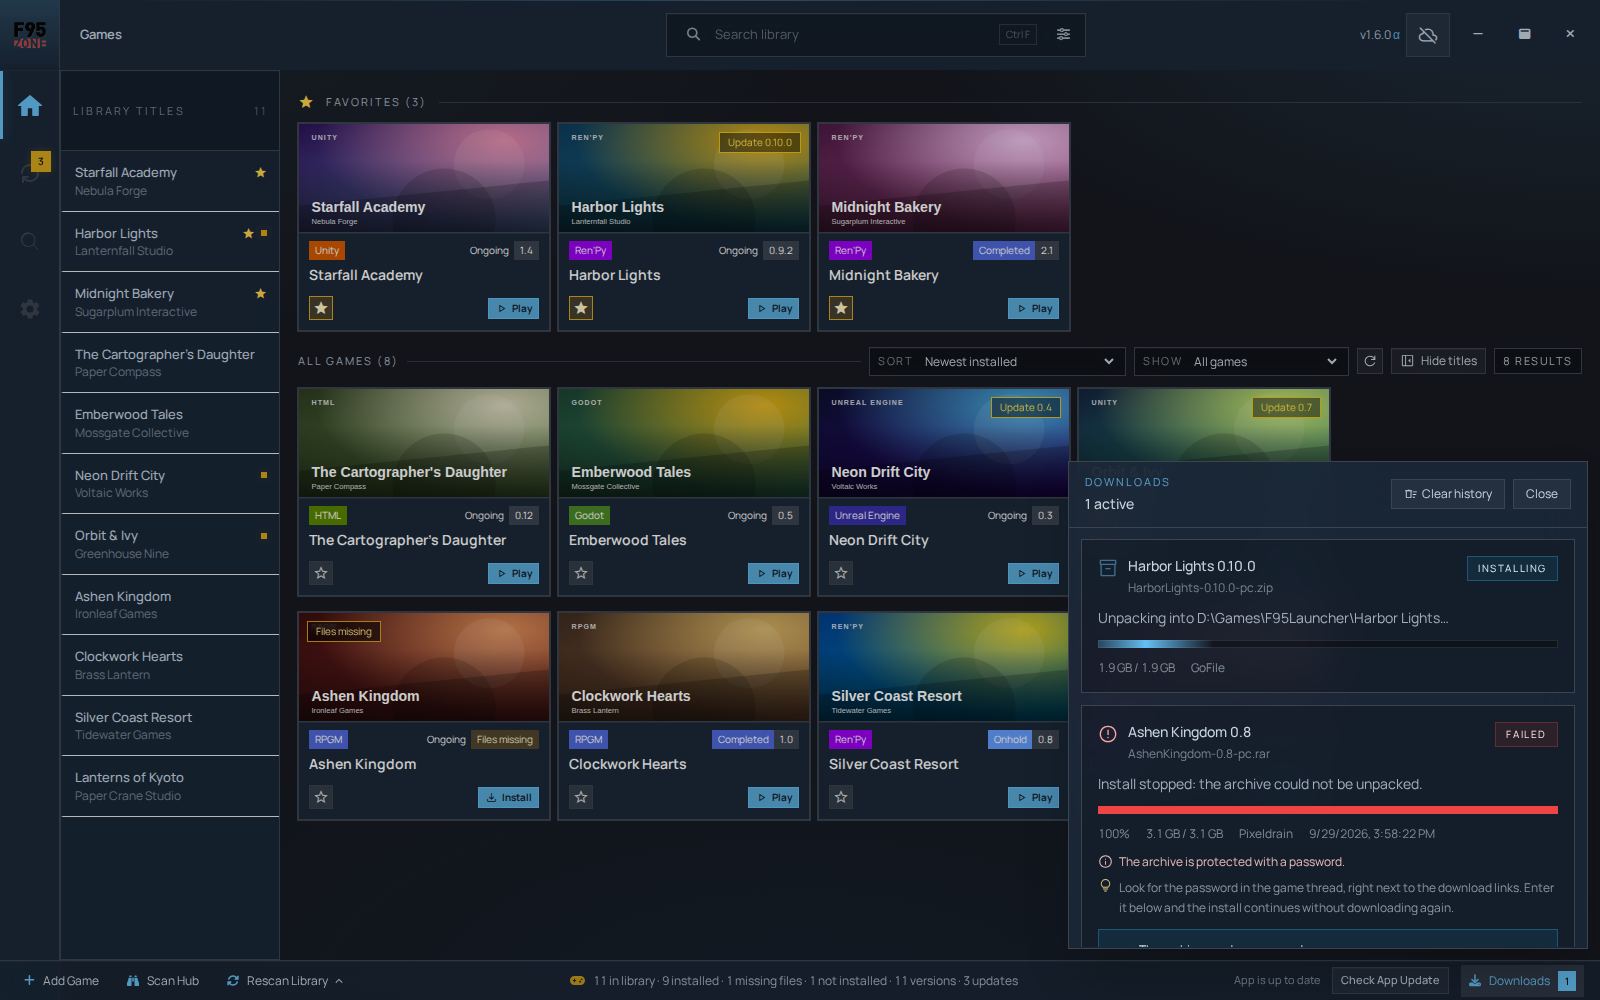
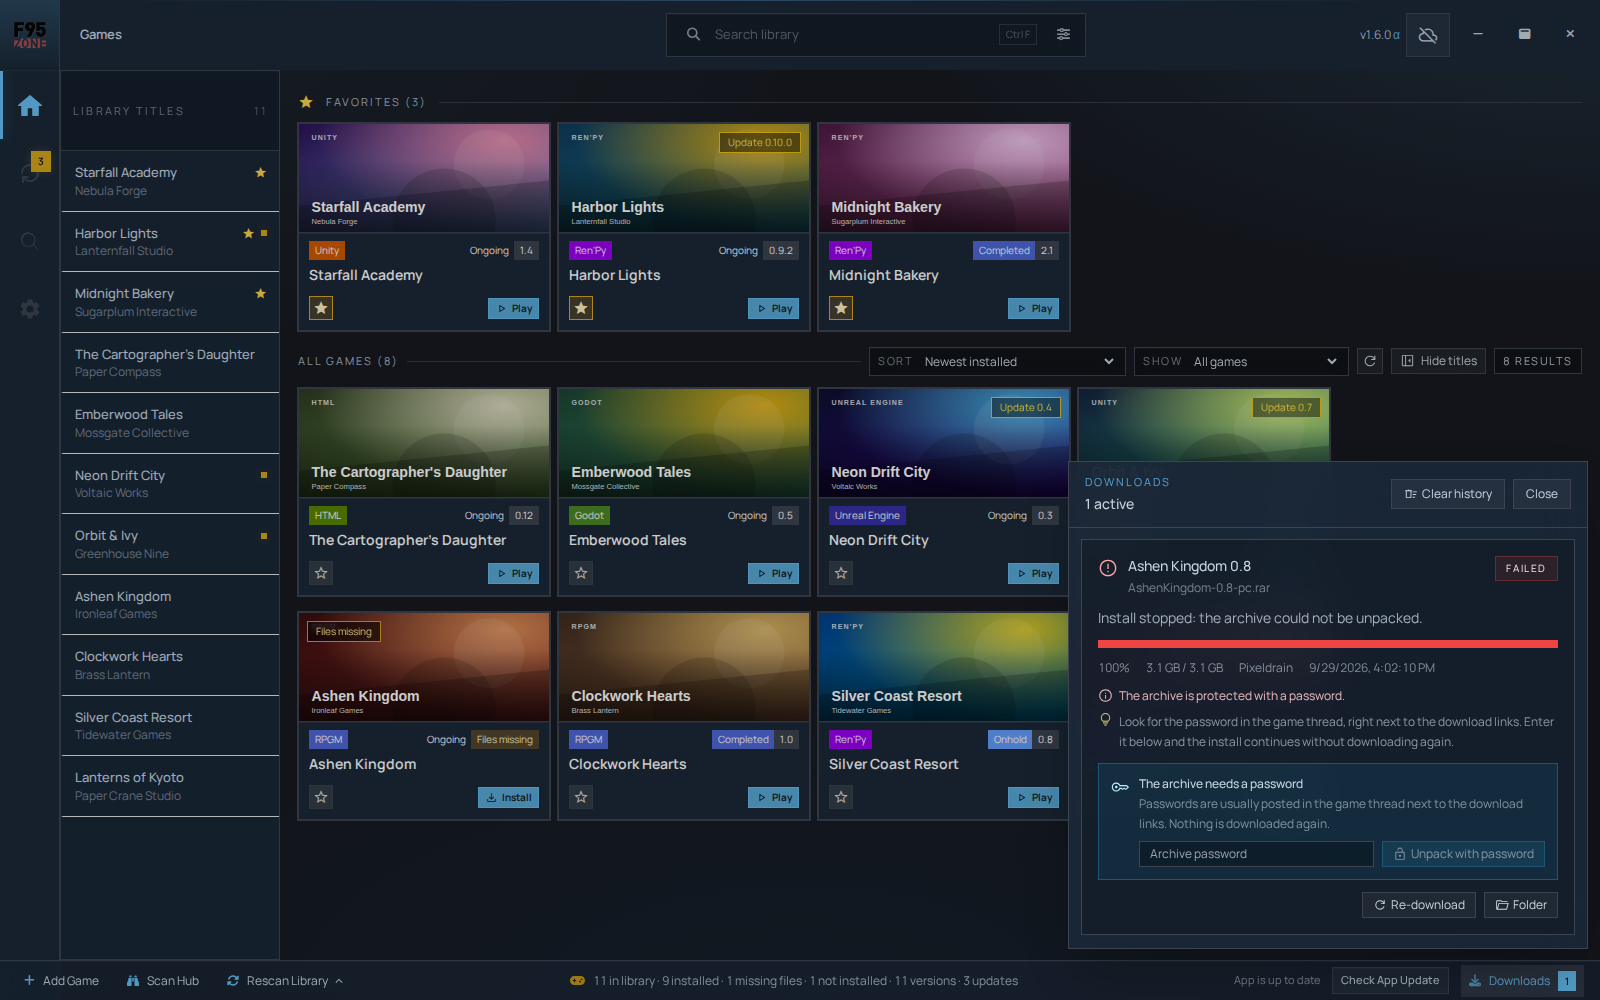
fix: Documents save detection no longer blocks full game removal
On Windows the save profile detector scans the real Documents folder and
matched the creator name by overlap ("Studio" vs "Visual Studio 2022"),
producing a profile that removeLibraryGame refused as unsafe, so
"delete files and saves" failed. The Documents root now needs an exact
folder name; "My Games" and "Saved Games" keep overlap matching.
Full removal can wipe Documents/Saved Games save folders but never the
roots themselves. Tests isolate those folders through the existing
ATLAS_DOCUMENTS_DIR / ATLAS_SAVED_GAMES_DIR overrides.

Also: refreshed marketing screenshots and their captions, and the demo
downloads card shows one action row.

Changed region(s): [[0.6875, 0.558, 0.9688, 0.93], [0.9062, 0.558, 0.9688, 0.589]]

diff --git a/test/gameRemoval.test.js b/test/gameRemoval.test.js
@@ -264,18 +264,34 @@ test("removeLibraryGame full cleanup deletes install folders, detected saves, an
     "saves",
     "slot2.save",
   );
-  const previousAppData = process.env.APPDATA;
+  const previousEnv = {
+    APPDATA: process.env.APPDATA,
+    ATLAS_DOCUMENTS_DIR: process.env.ATLAS_DOCUMENTS_DIR,
+    ATLAS_SAVED_GAMES_DIR: process.env.ATLAS_SAVED_GAMES_DIR,
+  };
   const appDataRoot = path.join(tempRoot, "AppData", "Roaming");
   const renpySaveRoot = path.join(appDataRoot, "RenPy", "Fresh Start");
   const renpySaveFile = path.join(renpySaveRoot, "persistent");
+  // The detector also looks in the real Documents / Saved Games folders of
+  // the machine; point them at the temp dir so the test never depends on
+  // (or touches) what the developer keeps there.
+  const documentsRoot = path.join(tempRoot, "Documents");
+  const documentsSaveRoot = path.join(documentsRoot, "My Games", "Fresh Start");
+  const savedGamesRoot = path.join(tempRoot, "Saved Games");
 
   ensureAppDirs(appPaths);
   fs.mkdirSync(path.dirname(localSavePath), { recursive: true });
   fs.mkdirSync(renpySaveRoot, { recursive: true });
+  fs.mkdirSync(documentsSaveRoot, { recursive: true });
+  fs.mkdirSync(path.join(documentsRoot, "Studio Projects"), { recursive: true });
+  fs.mkdirSync(savedGamesRoot, { recursive: true });
   fs.writeFileSync(localSavePath, "slot-two", "utf8");
   fs.writeFileSync(path.join(installDirectory, "game.exe"), "binary", "utf8");
   fs.writeFileSync(renpySaveFile, "persistent-two", "utf8");
+  fs.writeFileSync(path.join(documentsSaveRoot, "slot1.sav"), "documents-save", "utf8");
   process.env.APPDATA = appDataRoot;
+  process.env.ATLAS_DOCUMENTS_DIR = documentsRoot;
+  process.env.ATLAS_SAVED_GAMES_DIR = savedGamesRoot;
 
   const db = await initializeDatabase(appPaths);
 
@@ -323,15 +339,21 @@ test("removeLibraryGame full cleanup deletes install folders, detected saves, an
       },
     );
 
-    assert.equal(result.success, true);
+    assert.equal(result.success, true, JSON.stringify(result));
     assert.equal(fs.existsSync(installDirectory), false);
     assert.equal(fs.existsSync(renpySaveRoot), false);
+    assert.equal(fs.existsSync(documentsSaveRoot), false, "Documents/My Games save folder is wiped");
+    assert.equal(fs.existsSync(path.join(documentsRoot, "My Games")), true, "shared My Games level stays");
+    assert.equal(fs.existsSync(path.join(documentsRoot, "Studio Projects")), true, "unrelated Documents folder stays");
     assert.equal(
       fs.existsSync(path.join(appPaths.backups, "save_vault", identity)),
       false,
     );
   } finally {
-    process.env.APPDATA = previousAppData;
+    for (const [key, value] of Object.entries(previousEnv)) {
+      if (value === undefined) delete process.env[key];
+      else process.env[key] = value;
+    }
     await closeAsync(db);
   }
 });

diff --git a/test/saveProfileDetector.test.js b/test/saveProfileDetector.test.js
@@ -211,6 +211,8 @@ test("detectSaveProfiles finds Documents/My Games, Saved Games and GameMaker fol
   fs.writeFileSync(path.join(installRoot, "data.win"), "");
   fs.mkdirSync(path.join(documents, "My Games", "Crimson High"), { recursive: true });
   fs.mkdirSync(path.join(documents, "Game"), { recursive: true });
+  fs.mkdirSync(path.join(documents, "Crimson High"), { recursive: true });
+  fs.mkdirSync(path.join(documents, "Studio X Projects"), { recursive: true });
   fs.mkdirSync(path.join(savedGames, "CrimsonHigh"), { recursive: true });
   fs.mkdirSync(path.join(localAppData, "Crimson_High"), { recursive: true });
   fs.writeFileSync(path.join(localAppData, "Crimson_High", "save.ini"), "");
@@ -233,8 +235,16 @@ test("detectSaveProfiles finds Documents/My Games, Saved Games and GameMaker fol
     assert.ok(roots.includes(path.join(savedGames, "CrimsonHigh")), "Saved Games");
     assert.ok(roots.includes(path.join(localAppData, "Crimson_High")), "GameMaker LocalAppData");
     assert.equal(roots.includes(path.join(documents, "Game")), false, "generic names never match");
+    assert.ok(roots.includes(path.join(documents, "Crimson High")), "Documents root, exact name");
+    assert.equal(
+      roots.includes(path.join(documents, "Studio X Projects")),
+      false,
+      "Documents root never matches by overlap",
+    );
     assert.equal(roots.includes(path.join(localAppData, "Microsoft")), false);
-    const documentsProfile = profiles.find((profile) => profile.provider === "documents");
+    const documentsProfile = profiles.find(
+      (profile) => profile.rootPath === path.join(documents, "My Games", "Crimson High"),
+    );
     assert.deepEqual(documentsProfile.strategy, {
       type: "windows-known-folder",
       payload: { baseFolder: "documents", path: "My Games/Crimson High" },

diff --git a/src/main/gameRemoval.js b/src/main/gameRemoval.js
@@ -183,7 +183,16 @@ function collectExternalSaveDirectories(saveSnapshot, installDirectories) {
     appdata: getKnownFolderRoot("appdata"),
     localAppData: getKnownFolderRoot("localAppData"),
     localLow: getKnownFolderRoot("localLow"),
+    documents: getKnownFolderRoot("documents"),
+    savedGames: getKnownFolderRoot("savedGames"),
   };
+  // Documents and Saved Games hold plenty that is not a game: only a folder
+  // below them (never the root or a shared "My Games" level) may be wiped.
+  const protectedRoots = [
+    knownRoots.documents,
+    knownRoots.savedGames,
+    knownRoots.documents ? path.join(knownRoots.documents, "My Games") : "",
+  ].filter(Boolean);
   const seenPaths = new Set();
   const deletePaths = [];
   const unsupportedPaths = [];
@@ -224,7 +233,13 @@ function collectExternalSaveDirectories(saveSnapshot, installDirectories) {
     if (strategyType === "windows-known-folder") {
       const baseFolder = String(profile?.strategy?.payload?.baseFolder || "");
       const baseRoot = knownRoots[baseFolder];
-      if (baseRoot && isPathWithin(baseRoot, resolvedRootPath)) {
+      if (
+        baseRoot &&
+        isPathWithin(baseRoot, resolvedRootPath) &&
+        !protectedRoots.some((protectedRoot) =>
+          isSamePath(protectedRoot, resolvedRootPath),
+        )
+      ) {
         seenPaths.add(comparisonToken);
         deletePaths.push(resolvedRootPath);
         continue;

diff --git a/src/main/detectors/saveProfileDetector.js b/src/main/detectors/saveProfileDetector.js
@@ -785,10 +785,13 @@ function detectDocumentsProfiles(game) {
   if (candidates.length === 0) {
     return [];
   }
+  // The Documents root itself is full of unrelated folders ("Visual Studio
+  // 2022" would overlap a creator called "Studio"), so only an exact name
+  // counts there. "My Games" and "Saved Games" contain games only.
   const roots = [
-    { baseFolder: "documents", prefix: ["My Games"] },
-    { baseFolder: "documents", prefix: [] },
-    { baseFolder: "savedGames", prefix: [] },
+    { baseFolder: "documents", prefix: ["My Games"], minimumConfidence: 56 },
+    { baseFolder: "documents", prefix: [], minimumConfidence: 82 },
+    { baseFolder: "savedGames", prefix: [], minimumConfidence: 56 },
   ];
   /** @type {DetectedSaveProfile[]} */
   const profiles = [];
@@ -807,7 +810,7 @@ function detectDocumentsProfiles(game) {
         continue;
       }
       const score = scoreCandidateTokenMatch(entry.name, candidates, 82, 56);
-      if (score.confidence < 56) {
+      if (score.confidence < root.minimumConfidence) {
         continue;
       }
       profiles.push({

diff --git a/src/web-preview-api.js b/src/web-preview-api.js
@@ -787,6 +787,7 @@
           hint: "Look for the password in the game thread, right next to the download links. Enter it below and the install continues without downloading again.",
           canCancel: false,
           canRetry: true,
+          canInstallManually: false,
           updatedAt: minutesAgo(4),
           threadUrl: findDemoGame(3).siteUrl,
         },

diff --git a/docs/save-transfer.md b/docs/save-transfer.md
@@ -26,7 +26,7 @@
 - HTML/NW.js/Electron/TyranoBuilder: `Local Storage`/`IndexedDB` приложения в `%LOCALAPPDATA%`/`%APPDATA%`;
 - Flash: `%APPDATA%\Macromedia\Flash Player\#SharedObjects\<id>\localhost\<путь к игре>` (путь зеркалит папку игры, поэтому находится точно);
 - GameMaker: `%LOCALAPPDATA%\<игра>` с файлами сохранений;
-- любой движок: `Documents\My Games\<игра>`, `Documents\<игра>`, `Saved Games\<игра>` — только при сильном совпадении имени (короткие и общие слова вроде `Game` не считаются).
+- любой движок: `Documents\My Games\<игра>`, `Documents\<игра>`, `Saved Games\<игра>` — только при сильном совпадении имени (короткие и общие слова вроде `Game` не считаются; в корне `Documents` засчитывается только точное имя папки, иначе автор «Studio» совпал бы с `Visual Studio 2022`). Полное удаление игры умеет стирать такие папки, но никогда не трогает сами `Documents`, `Documents\My Games` и `Saved Games`.
 
 ## Как это работает
 1. **Экспорт** (`exportGameSavesToFile`): для каждого профиля берётся тот же `archiveRoot`, что использует локальное хранилище и облако (`profiles/local/<путь>`, `profiles/roaming/RenPy/<папка>`, `profiles/local-low/...`, `profiles/documents/...`), файлы кладутся в zip (adm-zip), `manifest.json` = общий `buildSaveManifest` (identity, profiles, entries с sha256/mtime) + `format: "f95launcher-saves"`, `formatVersion`, `app`, `game { title, creator, engine, threadUrl, atlasId }`. Пустой набор → ошибка `no_save_files`, файл не создаётся.

diff --git a/docs/screenshots/README.md b/docs/screenshots/README.md
@@ -13,8 +13,8 @@ Captions for the forum post:
 | File | Caption |
 |---|---|
 | `01-library-grid.png` | Your library: favorites, engine and status badges, update badges from the F95 threads, "Files missing" and "Not installed" states with one-click Install. |
-| `02-game-details-saves.png` | Game details: installed versions, "Update to 0.10.0" straight from the thread, and the Saves block with file export/import and your own cloud. |
-| `03-downloads-panel.png` | Downloads: unpacking in the background; a failed install keeps the file and tells you exactly what to do (password, disk space, damaged download) with Retry install and Install from folder. |
+| `02-game-details-saves.png` | Game details: the Saves block with the save locations found for the game, Export/Import to a file, "Back up to OneDrive" / "Restore from OneDrive", and the last backup time. |
+| `03-downloads-panel.png` | Downloads: a failed install keeps the downloaded file and tells you exactly what to do; here the archive needs a password, so you type it and unpack without re-downloading. |
 | `04-scan-hub.png` | Scan Hub: refresh installed games, reset cache & rescan, rebuild from scratch with a backup, scan sources and the discovery queue. |
 | `05-updates-inbox.png` | Updates: every game with a newer version, checked against the live F95 threads. |
 | `06-settings-save-storage.png` | Save storage: connected to your own OneDrive, sync status, connection card for another PC, and the catalog of backups from every PC. |
